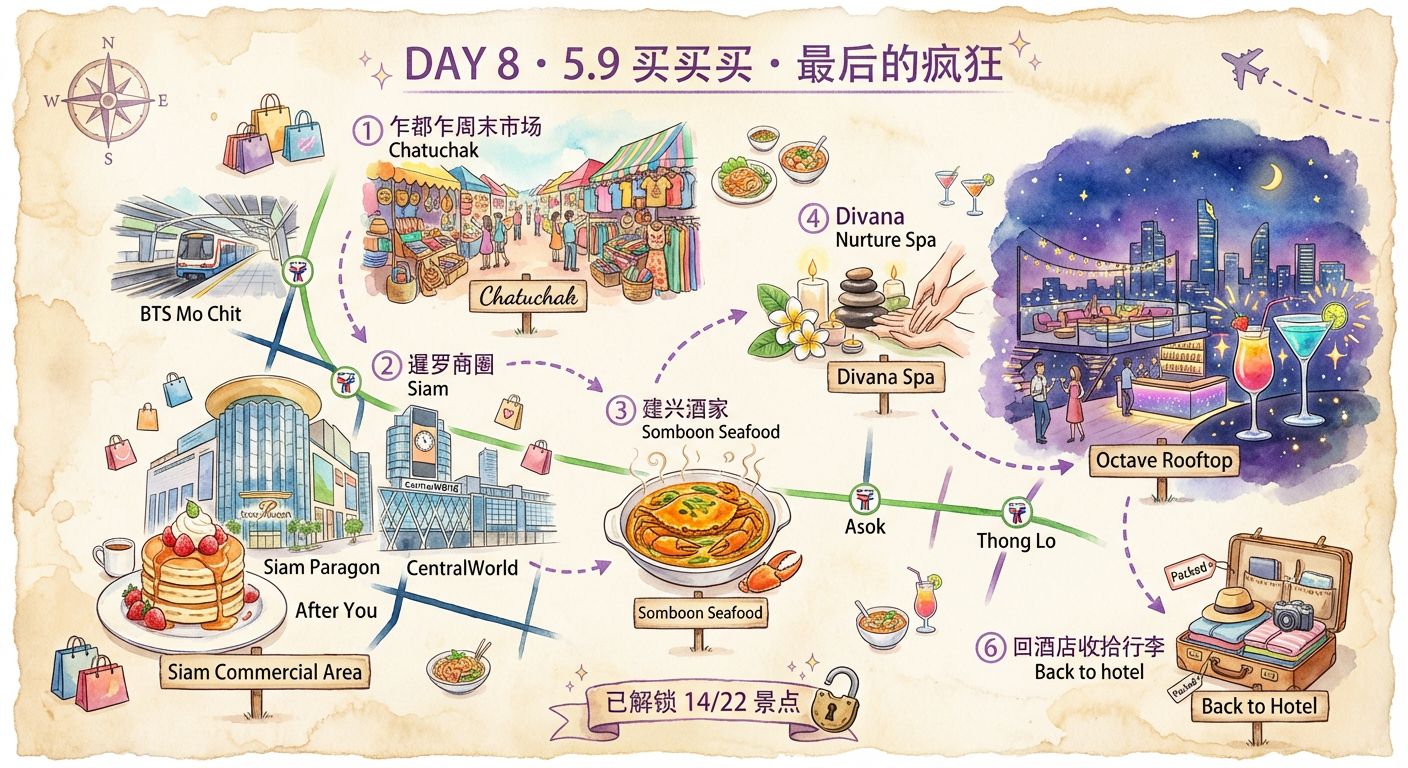
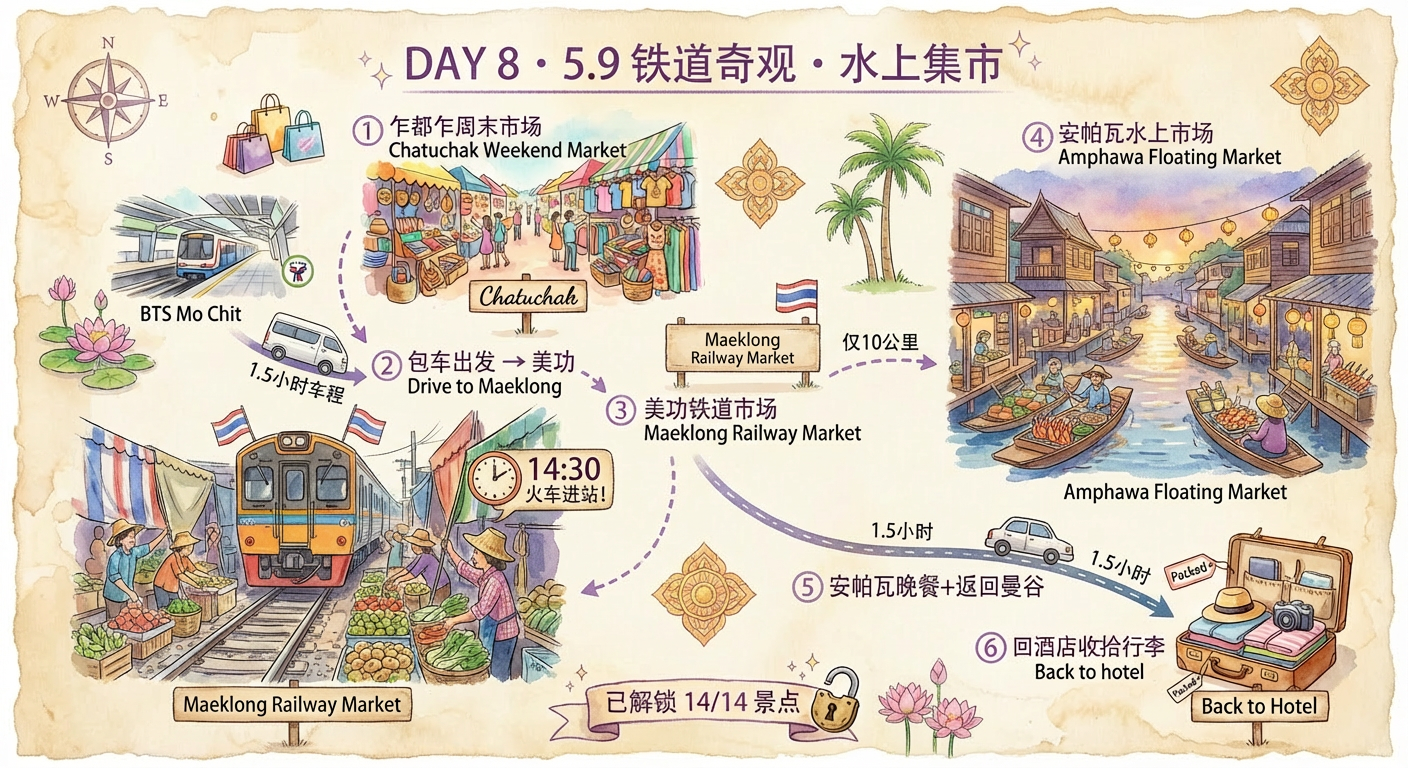
feat: Day6-9曼谷行程大改 - 酒店改湄南河区ICONSIAM，Day8改为铁道奇观+水上集市
- Day6晚上: 入住湄南河区酒店 + ICONSIAM购物(前置买买买)
- Day7: 出发点改为湄南河区酒店直接坐船去大皇宫
- Day8: 完全重写为方案B(乍都乍→美功铁道14:30→安帕瓦水上市场→回酒店)
- Day9: 出发去机场改为从湄南河区
- 重新生成3张曼谷手绘地图(Day7/Day8/全景)
- 更新BangkokMapData描述

diff --git a/src/data/itinerary.ts b/src/data/itinerary.ts
@@ -887,20 +887,20 @@ export const itineraryData: DayItinerary[] = [
         tips: "普吉→曼谷航班很多，亚航、泰狮航等廉航约500-1000泰铢/人",
       },
       {
-        name: "入住曼谷酒店",
-        desc: "抵达曼谷素万那普或廊曼机场，打车/坐机场快线到酒店check in，稍作休整",
+        name: "入住湄南河区酒店",
+        desc: "抵达曼谷素万那普机场，Grab约40分钟到湄南河区酒店check in。选择河畔酒店，方便明天坐船礼佛、后天出发去美功铁道",
         time: "18:00-19:00",
         icon: "fa-hotel",
         img: "https://images.unsplash.com/photo-1508009603885-50cf7c579365?w=600&q=80",
-        tips: "推荐住暹罗/素坤逸区域，BTS沿线交通方便",
+        tips: "推荐住ICONSIAM附近的河畔酒店，BTS Gold Line Charoen Nakhon站直达。河景房看湄南河夜景超美",
       },
       {
-        name: "暹罗商圈 & 夜市初探",
-        desc: "逛暹罗百丽宫、Central World等商场，或者去附近的夜市感受曼谷夜生活的热闹氛围",
-        time: "19:30-22:00",
+        name: "ICONSIAM 暹罗天地",
+        desc: "曼谷最大最豪华的河畔商场！7层购物天堂，G层有室内水上市场Sook Siam（还原了泰国四大地区的传统市集，各种街头小吃和手工艺品）。把买买买前置到今晚，明后天就能安心玩！",
+        time: "19:00-22:00",
         icon: "fa-cart-shopping",
         img: "https://images.unsplash.com/photo-1563492065599-3520f775eeed?w=600&q=80",
-        tips: "BTS轻轨是最方便的交通方式。Siam站下车直达各大商场",
+        tips: "营业到22:00。Sook Siam室内水上市场必逛！芒果糯米饭、船粿条、泰式奶茶都超好吃。Boots/屈臣氏买泰国护肤品（Snail White蜗牛霜、Mistine防晒）。NaRaYa曼谷包这里也有专柜",
       },
     ],
     meals: [
@@ -912,12 +912,12 @@ export const itineraryData: DayItinerary[] = [
       },
       {
         type: "晚餐",
-        name: "曼谷夜市小吃 / 商场美食",
+        name: "ICONSIAM Sook Siam 室内水上市场",
         icon: "fa-bowl-food",
-        price: "~400泰铢/人",
+        price: "~300泰铢/人",
       },
     ],
-    transport: "Grab(卡伦→普吉镇~300泰铢) + Grab(普吉镇→机场~300泰铢) + 飞机(普吉→曼谷) + BTS轻轨",
+    transport: "Grab(卡伦→普吉镇~300泰铢) + Grab(普吉镇→机场~300泰铢) + 飞机(普吉→曼谷) + Grab(机场→酒店)",
     budget: 1200,
   },
   {
@@ -932,11 +932,11 @@ export const itineraryData: DayItinerary[] = [
     spots: [
       {
         name: "酒店出发 → 大皇宫",
-        desc: "从暹罗区酒店出发，BTS到Saphan Taksin站转乘湄南河快船（Chao Phraya Express Boat）到Tha Chang码头，沿途欣赏湄南河两岸风光",
+        desc: "从湄南河区酒店出发，步行到附近码头乘湄南河快船（Chao Phraya Express Boat）到N9 Tha Chang码头，沿途欣赏湄南河两岸风光。住在河边最大的好处就是直接上船！",
         time: "07:30-08:30",
         icon: "fa-ship",
         img: "https://images.unsplash.com/photo-1559592413-7cec4d0cae2b?w=600&q=80",
-        tips: "坐船去大皇宫是最有仪式感的方式！橙旗船15泰铢/人，到N9 Tha Chang码头下船。一定要8:30前到大皇宫，避开旅行团大军",
+        tips: "河畔酒店步行几分钟就到码头，比住暹罗区还要转BTS再换船方便太多！橙旗船15泰铢/人，到N9 Tha Chang码头下船。一定要8:30前到大皇宫，避开旅行团大军",
       },
       {
         name: "大皇宫 + 玉佛寺",
@@ -980,7 +980,7 @@ export const itineraryData: DayItinerary[] = [
       },
       {
         name: "回酒店休整 → 换装",
-        desc: "坐船回Saphan Taksin再转BTS回酒店，洗澡换衣服，准备晚上的夜市之旅。曼谷的夜晚才是真正的开始！",
+        desc: "从TYME坐船回湄南河区酒店，步行几分钟就到，比住暹罗区省了转BTS的时间。洗澡换衣服，准备晚上的夜市之旅。曼谷的夜晚才是真正的开始！",
         time: "17:30-19:00",
         icon: "fa-hotel",
         img: "https://images.unsplash.com/photo-1508009603885-50cf7c579365?w=600&q=80",
@@ -1014,14 +1014,14 @@ export const itineraryData: DayItinerary[] = [
         price: "~300泰铢/人",
       },
     ],
-    transport: "BTS + 湄南河快船(15泰铢) + 摆渡船(4泰铢) + MRT",
+    transport: "湄南河快船(15泰铢) + 摆渡船(4泰铢) + MRT",
     budget: 800,
   },
   {
     day: 8,
     date: "5月9日 · 周六",
-    title: "买买买 · 最后的疯狂",
-    theme: "乍都乍市场 · 暹罗购物 · 高空酒吧",
+    title: "铁道奇观 · 水上集市",
+    theme: "乍都乍市场 · 美功铁道 · 安帕瓦水上市场",
     weather: "晴 35°C",
     weatherIcon: "fa-sun",
     headerImg: "https://images.unsplash.com/photo-1519451241324-20b4ea2c4220?w=1200&q=80",
@@ -1029,48 +1029,48 @@ export const itineraryData: DayItinerary[] = [
     spots: [
       {
         name: "乍都乍周末市场 Chatuchak",
-        desc: "东南亚最大的周末市场，超过15000个摊位分成27个区！从手工艺品、vintage服饰、泰丝、椰子碗、香薰精油到各种小吃应有尽有。这里是买伴手礼的终极战场",
-        time: "09:00-12:30",
+        desc: "东南亚最大的周末市场，超过15000个摊位分成27个区！从手工艺品、vintage服饰、泰丝、椰子碗、香薰精油到各种小吃应有尽有。周六开门，今天是扫货伴手礼的最后机会",
+        time: "09:00-12:00",
         icon: "fa-shop",
         img: "https://images.unsplash.com/photo-1555529669-e69e7aa0ba9a?w=600&q=80",
-        tips: "BTS Mo Chit站或MRT Chatuchak Park站。一定要9点开门就到，中午后人挤人！必逛：Section 2-4（手工艺品）、Section 7（泰裤/棉麻衣服）、Section 17-19（家居香薰）。带现金砍价，开价的6-7折起砍",
+        tips: "从湄南河区酒店坐BTS Gold Line到Silom再转BTS到Mo Chit站，约40分钟。9点开门就到，中午前逛完！必逛：Section 2-4（手工艺品）、Section 7（泰裤/棉麻衣服）、Section 17-19（家居香薰）。带现金砍价，开价的6-7折起砍",
       },
       {
-        name: "暹罗商圈购物",
-        desc: "回到暹罗区逛三大商场：Siam Paragon（奢侈品+B1层暹罗海洋世界）、CentralWorld（中档品牌最全）、MBK Center（平价购物砍价天堂）。商场里冷气十足，是中午避暑的最佳选择",
-        time: "13:30-16:00",
-        icon: "fa-bag-shopping",
-        img: "https://images.unsplash.com/photo-1519451241324-20b4ea2c4220?w=600&q=80",
-        tips: "BTS Siam站直达。推荐在CentralWorld 7楼的After You吃招牌蜜糖吐司（Shibuya Honey Toast 295泰铢），泰奶刨冰也超好吃！Boots和屈臣氏买泰国本土护肤品（Snail White蜗牛霜、Mistine防晒）超划算",
+        name: "包车出发 → 美功铁道市场",
+        desc: "从乍都乍出发包车前往美功铁道市场（Maeklong Railway Market），车程约1.5小时往西南方向。沿途经过泰国乡村风光，远离曼谷都市的喧嚣",
+        time: "12:30-14:00",
+        icon: "fa-van-shuttle",
+        img: "https://images.unsplash.com/photo-1544620347-c4fd4a3d5957?w=600&q=80",
+        tips: "建议在Klook/KKday提前预订美功+安帕瓦半日包车游，4人包车约2000-2500泰铢。从湄南河区出发比暹罗区少穿越半个市区，省20-30分钟。车上可以补觉休息",
       },
       {
-        name: "建兴酒家 Somboon Seafood",
-        desc: "曼谷最有名的咖喱蟹餐厅！由潮汕华人黄汉坚老先生创立，招牌咖喱炒蟹用新鲜斯里兰卡蟹配上浓郁的蛋黄咖喱酱，是来曼谷必吃的一道菜。还有冬阴功虾、蒜蓉粉丝蒸扇贝",
-        time: "16:30-18:00",
-        icon: "fa-shrimp",
-        img: "https://images.unsplash.com/photo-1559847844-5315695dadae?w=600&q=80",
-        tips: "推荐Siam Square One分店（BTS Siam站），或Central Embassy分店。咖喱蟹约800-1200泰铢/只（按重量），4人点一只蟹+2-3个菜够吃。建议16:30去避开排队高峰",
+        name: "美功铁道市场 Maeklong Railway Market",
+        desc: "全世界最危险的菜市场！铁轨两旁密密麻麻的摊贩卖着蔬菜、水果、海鲜，火车进站时所有摊贩在几秒内收起遮阳棚让火车贴身而过，火车走后又瞬间恢复营业。14:30有一班火车进站，这就是今天的高潮时刻！",
+        time: "14:00-15:00",
+        icon: "fa-train",
+        img: "https://images.unsplash.com/photo-1504214208698-ea1916a2195a?w=600&q=80",
+        tips: "14:30火车进站是最震撼的时刻！提前15分钟占好位置，站在铁轨旁边（不要站在轨道上）。火车出站时刻15:30还有一班。整个过程只有几十秒但终生难忘",
       },
       {
-        name: "Divana Nurture Spa",
-        desc: "CNN评选曼谷最佳六大泰式按摩之一！隐藏在素坤逸小巷里的精品SPA会馆，环境像热带花园一样美。招牌Nurture套餐包含泰式草药热敷+精油按摩，旅途最后的极致放松",
+        name: "安帕瓦水上市场 Amphawa Floating Market",
+        desc: "距美功仅10公里，泰国最有氛围的水上市场！不同于丹嫩沙多的游客化，安帕瓦是本地人也爱逛的周末市场。河道两岸的木屋里卖着各种小吃，坐在河边吃炭烤大虾、船粿条，看着小船来来往往，傍晚还能坐船去看萤火虫",
+        time: "15:30-18:30",
+        icon: "fa-water",
+        img: "https://images.unsplash.com/photo-1506665531195-3566af2b4dfa?w=600&q=80",
+        tips: "只有周五六日开放，今天周六刚好！必吃：炭烤大虾（100-200泰铢/份）、船粿条（40泰铢）、芒果糯米饭、椰子冰淇淋。傍晚17:00后氛围最好，可以坐长尾船游河看萤火虫（约60泰铢/人）",
+      },
+      {
+        name: "安帕瓦晚餐 → 返回曼谷",
+        desc: "在水上市场吃完河鲜晚餐后，包车返回曼谷湄南河区酒店，车程约1.5小时。在车上回味今天从都市市集到铁道奇观再到水上人家的奇妙一天",
         time: "18:30-20:30",
-        icon: "fa-spa",
-        img: "https://images.unsplash.com/photo-1544161515-4ab6ce6db874?w=600&q=80",
-        tips: "地址：Sukhumvit Soi 25，BTS Asok站步行10分钟。2小时套餐约2500-3500泰铢/人，建议提前1天在官网预约。比街边按摩贵但体验完全不同级别",
-      },
-      {
-        name: "Octave Rooftop Bar",
-        desc: "曼谷最适合闺蜜拍照的高空酒吧！位于Marriott Sukhumvit酒店45-49楼，360度无遮挡全景俯瞰曼谷夜景。分三层：45楼室内酒吧、48楼露天平台、49楼最高层。四个人在星空下举杯，为9天旅程画上最美的句号",
-        time: "21:00-23:00",
-        icon: "fa-champagne-glasses",
-        img: "https://images.unsplash.com/photo-1470337458703-46ad1756a187?w=600&q=80",
-        tips: "BTS Thong Lo站步行5分钟。无低消但鸡尾酒约350-500泰铢/杯。17:00开始营业，21:00后氛围最好。穿漂亮裙子来！49楼风很大但夜景最震撼，记得带外套",
+        icon: "fa-car",
+        img: "https://images.unsplash.com/photo-1508009603885-50cf7c579365?w=600&q=80",
+        tips: "回程走Rama 2高速直达湄南河区，不用穿越市中心。如果想看萤火虫可以等到19:00天黑后再出发，20:30-21:00到酒店",
       },
       {
         name: "回酒店收拾行李",
-        desc: "最后的曼谷夜晚，回酒店整理行李、称重、分装伴手礼。凌晨01:25的红眼航班，需要22:30前到机场，所以23:00前必须从酒店出发",
-        time: "23:00-23:30",
+        desc: "最后的曼谷夜晚，回酒店整理行李、称重、分装伴手礼。凌晨01:25的红眼航班，23:30前从酒店出发去机场",
+        time: "21:00-23:30",
         icon: "fa-suitcase",
         img: "https://images.unsplash.com/photo-1553531384-cc64ac80f931?w=600&q=80",
         tips: "提前把要托运和随身的行李分好。泰国特产（榴莲干、冬阴功方便面、小老板海苔）可以在机场免税店买，不用塞行李箱",
@@ -1079,25 +1079,25 @@ export const itineraryData: DayItinerary[] = [
     meals: [
       {
         type: "午餐",
-        name: "乍都乍市场小吃 + After You蜜糖吐司",
-        icon: "fa-ice-cream",
-        price: "~300泰铢/人",
+        name: "乍都乍市场小吃",
+        icon: "fa-bowl-food",
+        price: "~200泰铢/人",
+      },
+      {
+        type: "下午茶",
+        name: "美功铁道市场热带水果",
+        icon: "fa-apple-whole",
+        price: "~50泰铢/人",
       },
       {
         type: "晚餐",
-        name: "建兴酒家咖喱蟹",
+        name: "安帕瓦水上市场河鲜",
         icon: "fa-shrimp",
-        price: "~600泰铢/人",
-      },
-      {
-        type: "宵夜",
-        name: "Octave高空酒吧鸡尾酒",
-        icon: "fa-champagne-glasses",
-        price: "~500泰铢/人",
+        price: "~300泰铢/人",
       },
     ],
-    transport: "BTS全天通票(150泰铢) + MRT",
-    budget: 1500,
+    transport: "BTS(酒店→Mo Chit) + 包车(乍都乍→美功→安帕瓦→酒店 约2000-2500泰铢)",
+    budget: 1200,
   },
   {
     day: 9,
@@ -1111,11 +1111,11 @@ export const itineraryData: DayItinerary[] = [
     spots: [
       {
         name: "酒店 → 素万那普机场",
-        desc: "从暹罗区酒店出发前往素万那普国际机场。深夜打车最方便，Grab约250-350泰铢，车程40-50分钟。提前3小时到机场办理值机和退税",
+        desc: "从湄南河区酒店出发前往素万那普国际机场。深夜打车最方便，Grab约300-400泰铢，车程约40分钟。提前3小时到机场办理值机和退税",
         time: "23:30-00:30",
         icon: "fa-taxi",
         img: "https://images.unsplash.com/photo-1544620347-c4fd4a3d5957?w=600&q=80",
-        tips: "深夜Airport Rail Link已停运（末班车约24:00），打Grab最稳妥。记得留200泰铢现金付机场行李车费。退税柜台在4楼出发层",
+        tips: "深夜Airport Rail Link已停运，打Grab最稳妥。湄南河区走高速到素万那普很顺畅。记得留200泰铢现金付机场行李车费。退税柜台在4楼出发层",
       },
       {
         name: "机场免税店 · 最后扫货",

diff --git a/src/data/culture.ts b/src/data/culture.ts
@@ -579,33 +579,33 @@ export const PhuketMapData: MapDayData[] = [
 ];
 
 export const BangkokMapData: MapDayData[] = [
-  {
-    day: 0,
-    label: '曼谷全景解锁',
-    title: '曼谷全景解锁',
-    color: '#ef4444',
-    img: '/map-bangkok-overview.png',
-    spots: 13,
-    desc: '3天13个景点全部解锁！寺庙巡礼、购物美食、高空酒吧、夜市探险，感受天使之城的金碧辉煌',
-  },
-  {
-    day: 7,
-    label: '5.8 金碧辉煌·寺庙巡礼',
-    title: '金碧辉煌·寺庙巡礼',
-    color: '#ff6b6b',
-    img: '/map-bangkok-day7.png',
-    spots: 8,
-    desc: '坐船→大皇宫+玉佛寺→卧佛寺→Supanniga河景午餐→郑王庙→TYME Rooftop日落→Jodd Fairs夜市',
-  },
-  {
-    day: 8,
-    label: '5.9 买买买·最后的疯狂',
-    title: '买买买·最后的疯狂',
-    color: '#a855f7',
-    img: '/map-bangkok-day8.png',
-    spots: 6,
-    desc: '乍都乍周末市场→暹罗商圈+After You→建兴酒家咖喱蟹→Divana Spa→Octave高空酒吧→收拾行李',
-  },
+{
+day: 0,
+label: '曼谷全景解锁',
+title: '曼谷全景解锁',
+color: '#ef4444',
+img: '/map-bangkok-overview.png',
+spots: 14,
+desc: '3天14个景点全部解锁！寺庙巡礼、ICONSIAM购物、铁道奇观、水上集市、夜市探险，感受天使之城的金碧辉煌',
+},
+{
+day: 7,
+label: '5.8 金碧辉煌·寺庙巡礼',
+title: '金碧辉煌·寺庙巡礼',
+color: '#ff6b6b',
+img: '/map-bangkok-day7.png',
+spots: 8,
+desc: '湄南河区酒店坐船→大皇宫+玉佛寺→卧佛寺→Supanniga河景午餐→郑王庙→TYME Rooftop日落→Jodd Fairs夜市',
+},
+{
+day: 8,
+label: '5.9 铁道奇观·水上集市',
+title: '铁道奇观·水上集市',
+color: '#a855f7',
+img: '/map-bangkok-day8.png',
+spots: 6,
+desc: '乍都乍周末市场→包车→美功铁道市场(14:30火车进站)→安帕瓦水上市场→返回曼谷→收拾行李',
+},
 ];
 
 // Singapore map data (4 items: summary first, then 3 days)
